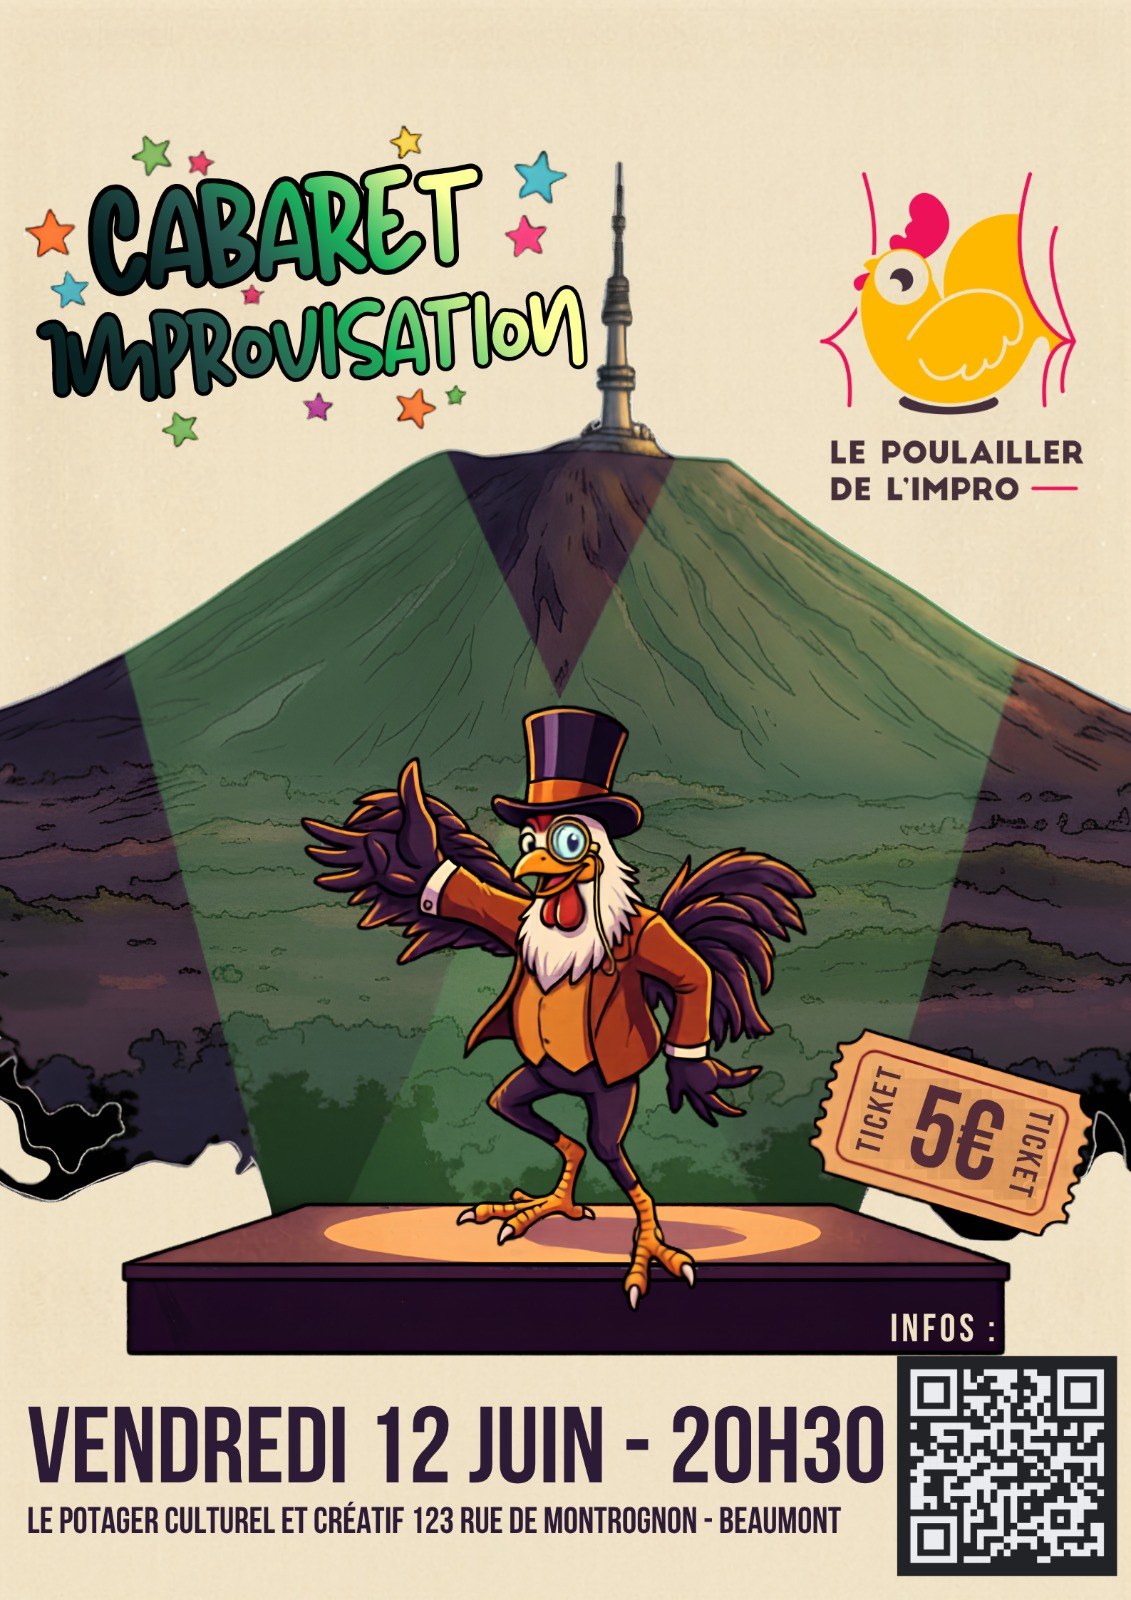
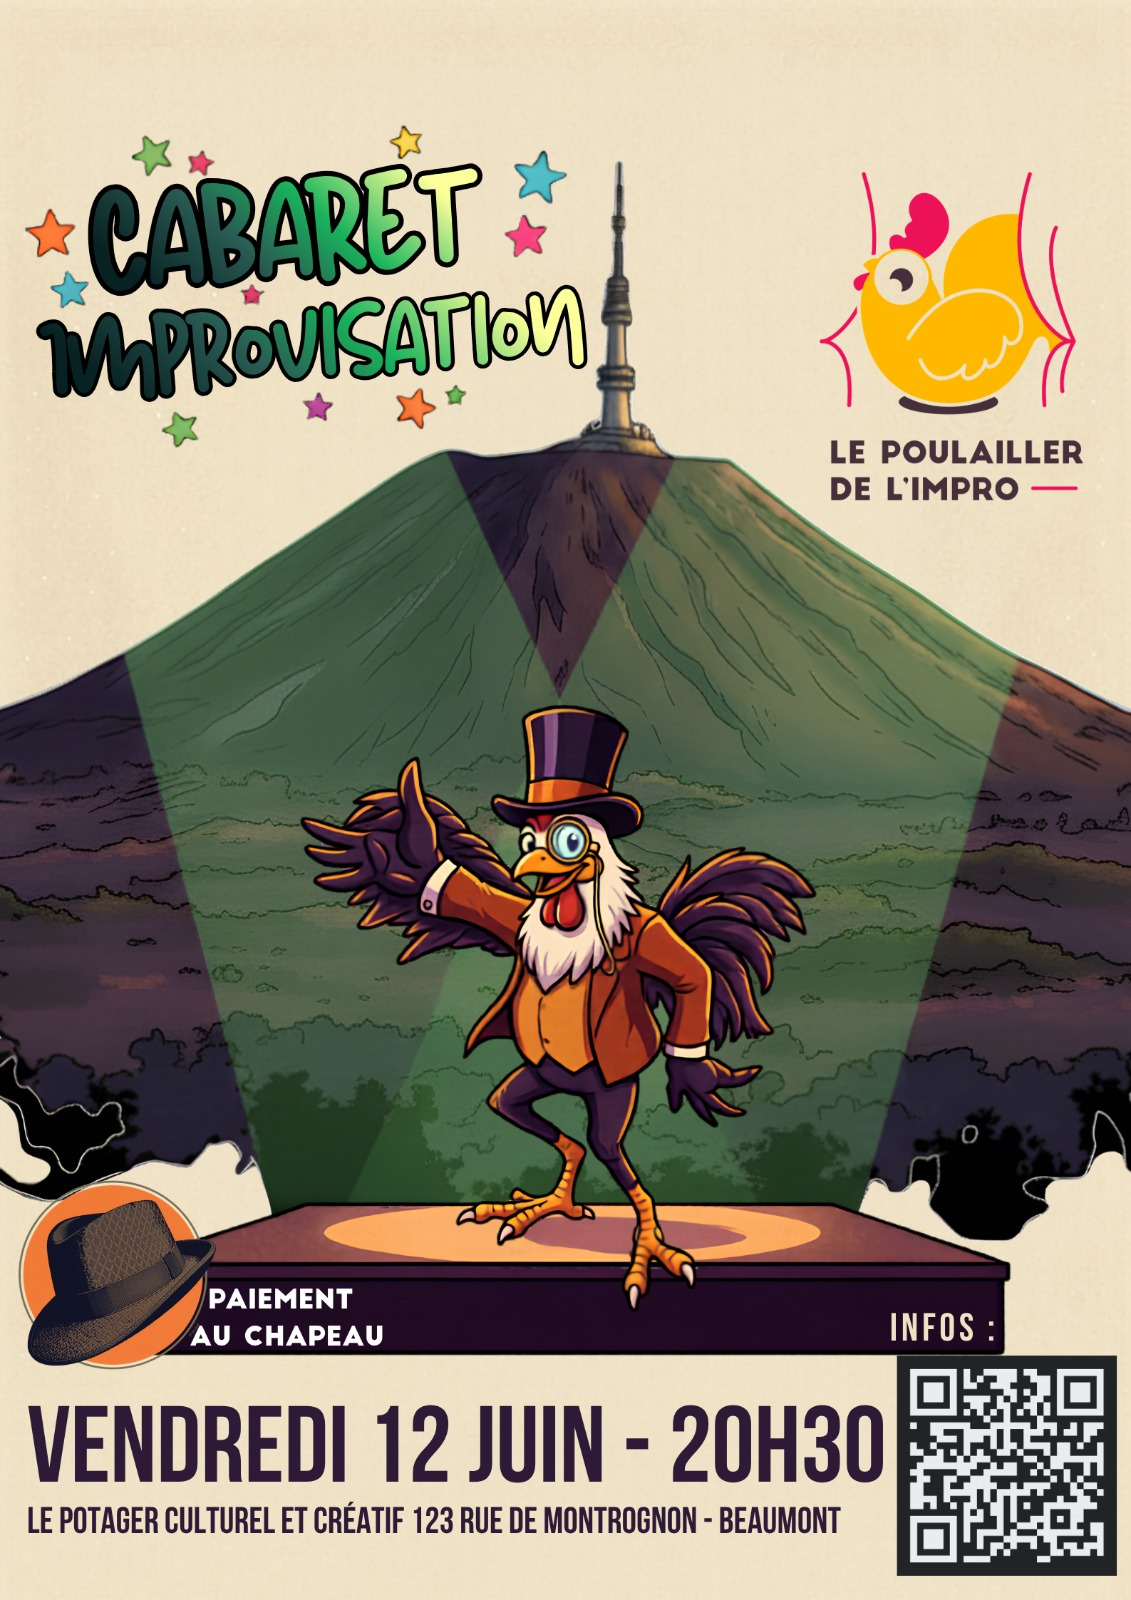
show: fix price on pcc show

diff --git a/src/spectacles/2026-06-12-cabaret-pcc.md b/src/spectacles/2026-06-12-cabaret-pcc.md
@@ -8,7 +8,7 @@ date: 2026-06-12
 time: 20h30
 place: Jardins Partagés • Beaumont
 description:
-price: 5
+price:
 image: ../../assets/img/affiche-20260612-cabaret.jpeg
 buy_link: https://www.helloasso.com/associations/le-poulailler-de-l-impro/evenements/cabaret-d-improvisation-theatrale-aux-jardin-de-beaumont
 ---
